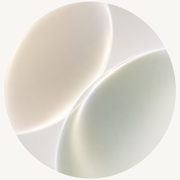
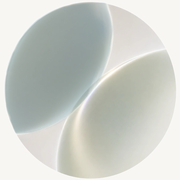
Redesign for desktop, remove dark mode, update brand mark
Logo: swaps in the new logo artwork (background made transparent the
same way as before) across the favicon, apple touch icon, and every
in-app usage, and sizes the mark down slightly at each of its three
call sites.

Layout: Shell now scales its max-width responsively (max-w-md up to
max-w-3xl at lg) instead of staying pinned to a 448px mobile column
regardless of viewport, so the app reads as a website that uses the
available width rather than a phone app floating in empty space. The
intro screen's stat grid, the settings stat grid, and the exercise
catalog all go multi-column on wider screens instead of staying
single/double-column.

Interactions: bottom-nav tabs get a hover "pop" (scale + lift + faint
background tint) with a 400ms ease-out transition; every other
duration-300 transition in the app (buttons, cards, chips) is bumped
to 400ms for a slightly more fluid feel.

Dark mode: removed entirely — the theme toggle button is gone from
the nav, useTheme() now hardcodes the light palette, and AmbientField
no longer branches on a dark variant. t.isDark stays wired through as
a permanent false rather than ripping out every light/dark ternary
across the file, so existing styling code keeps working unchanged
while always resolving to its light branch.

diff --git a/app/LuminousApp.js b/app/LuminousApp.js
@@ -2,7 +2,7 @@
 
 import React, { useState, useEffect, useRef, useCallback } from 'react';
 import {
-  Play, Pause, Sun, Moon, ChevronRight, ChevronLeft, Volume2, VolumeX,
+  Play, Pause, Moon, ChevronRight, ChevronLeft, Volume2, VolumeX,
   SkipForward, RotateCcw, Vibrate, Wind, Flame, Target, CloudRain, Leaf,
   Check, ArrowUp, ArrowDown, Sparkles, Plus, Minus, X,
   Waves, AlertTriangle, TrendingUp, BarChart3, Home, Music, Tag, History,
@@ -843,7 +843,7 @@ const MOOD_DOT_COLORS = {
 };
 
 function useTheme() {
-  const [isDark, setIsDark] = useState(false);
+  const isDark = false;
   const t = {
     bgColor: isDark ? BRAND.deepIndigo : BRAND.warmIvory, // applied via inline style at the root only
     text: isDark ? 'text-zinc-400' : 'text-zinc-500',
@@ -859,7 +859,7 @@ function useTheme() {
     buttonGhost: isDark ? 'bg-white/5 backdrop-blur-md text-zinc-300 hover:bg-white/10 shadow-sm' : 'bg-white/45 backdrop-blur-md text-zinc-600 hover:bg-white/70 shadow-sm',
     input: isDark ? 'bg-white/5 backdrop-blur-md text-zinc-200 placeholder-zinc-600 shadow-sm' : 'bg-white/50 backdrop-blur-md text-zinc-700 placeholder-zinc-400 shadow-sm',
   };
-  return { isDark, setIsDark, t };
+  return { isDark, t };
 }
 
 // Loads the brand's Display (Cormorant Garamond) and UI (Satoshi) fonts once,
@@ -882,18 +882,12 @@ function useBrandFonts() {
 }
 
 /* -------- ambient background: slow drifting brand-color light -------- */
-function AmbientField({ isDark }) {
-  const blobs = isDark
-    ? [
-        { top: '-12%', left: '-14%', size: 560, color: 'rgba(207,232,243,0.10)', anim: 'driftA 26s ease-in-out infinite' },
-        { top: '18%', right: '-16%', size: 520, color: 'rgba(216,234,219,0.10)', anim: 'driftB 32s ease-in-out infinite' },
-        { bottom: '-16%', left: '18%', size: 500, color: 'rgba(221,230,219,0.10)', anim: 'driftC 30s ease-in-out infinite' },
-      ]
-    : [
-        { top: '-12%', left: '-14%', size: 560, color: 'rgba(207,232,243,0.55)', anim: 'driftA 26s ease-in-out infinite' },
-        { top: '18%', right: '-16%', size: 520, color: 'rgba(216,234,219,0.55)', anim: 'driftB 32s ease-in-out infinite' },
-        { bottom: '-16%', left: '18%', size: 500, color: 'rgba(248,236,224,0.5)', anim: 'driftC 30s ease-in-out infinite' },
-      ];
+function AmbientField() {
+  const blobs = [
+    { top: '-12%', left: '-14%', size: 560, color: 'rgba(207,232,243,0.55)', anim: 'driftA 26s ease-in-out infinite' },
+    { top: '18%', right: '-16%', size: 520, color: 'rgba(216,234,219,0.55)', anim: 'driftB 32s ease-in-out infinite' },
+    { bottom: '-16%', left: '18%', size: 500, color: 'rgba(248,236,224,0.5)', anim: 'driftC 30s ease-in-out infinite' },
+  ];
   return (
     <div className="fixed inset-0 overflow-hidden pointer-events-none" style={{ zIndex: 0 }}>
       {blobs.map((b, i) => (
@@ -987,18 +981,6 @@ function Logo({ t }) {
   );
 }
 
-function ThemeToggle({ isDark, setIsDark, t }) {
-  return (
-    <button
-      onClick={() => setIsDark(d => !d)}
-      aria-label="Toggle dark mode"
-      className={`w-9 h-9 rounded-full flex items-center justify-center transition-colors ${t.buttonGhost}`}
-    >
-      {isDark ? <Sun size={16} strokeWidth={1.6} /> : <Moon size={16} strokeWidth={1.6} />}
-    </button>
-  );
-}
-
 function ProgressDots({ step, t }) {
   const steps = ['Check-in', 'Session', 'Reflect'];
   if (step < 0) return null;
@@ -1017,7 +999,7 @@ function ProgressDots({ step, t }) {
   );
 }
 
-function NavBar({ active, onHome, onReset, onFocus, onSettings, isDark, setIsDark, t }) {
+function NavBar({ active, onHome, onReset, onFocus, onSettings, t }) {
   const items = [
     { id: 'home', label: 'Home', icon: Home, action: onHome },
     { id: 'reset', label: 'Reset', icon: Leaf, action: onReset },
@@ -1034,7 +1016,7 @@ function NavBar({ active, onHome, onReset, onFocus, onSettings, isDark, setIsDar
             <button
               key={item.id}
               onClick={item.action}
-              className="relative flex items-center justify-center w-11 h-11 rounded-full transition-all duration-300"
+              className={`relative flex items-center justify-center w-11 h-11 rounded-full transition-all duration-[400ms] ease-out hover:scale-110 hover:-translate-y-0.5 active:scale-95 ${isActive ? '' : 'hover:bg-black/5'}`}
             >
               {isActive && (
                 <span className="absolute inset-0 rounded-full bg-gradient-to-br from-sky-200/70 via-blue-200/60 to-green-200/60" />
@@ -1043,8 +1025,6 @@ function NavBar({ active, onHome, onReset, onFocus, onSettings, isDark, setIsDar
             </button>
           );
         })}
-        <span className="w-px h-5 mx-1 bg-current opacity-10" />
-        <ThemeToggle isDark={isDark} setIsDark={setIsDark} t={t} />
       </div>
     </div>
   );
@@ -1080,7 +1060,7 @@ function MoodPicker({ value, onChange, t }) {
           onClick={() => onChange(i)}
           className="flex flex-col items-center gap-2 group"
         >
-          <div className={`p-2.5 rounded-2xl transition-all duration-300 ${value === i ? (t.isDark ? 'bg-sky-950/40' : 'bg-sky-50') : ''}`}>
+          <div className={`p-2.5 rounded-2xl transition-all duration-[400ms] ${value === i ? (t.isDark ? 'bg-sky-950/40' : 'bg-sky-50') : ''}`}>
             <FaceIcon level={i} active={value === i} t={t} />
           </div>
           <span className={`text-[11px] transition-colors ${value === i ? 'text-sky-400' : t.textSoft}`}>{label}</span>
@@ -1139,7 +1119,7 @@ function MoodQuiz({ answers, setAnswer, t }) {
               <button
                 key={opt.id}
                 onClick={() => choose(q.id, opt.id)}
-                className={`flex items-center justify-between gap-3 px-4 py-3.5 rounded-2xl text-sm transition-all duration-300 ${
+                className={`flex items-center justify-between gap-3 px-4 py-3.5 rounded-2xl text-sm transition-all duration-[400ms] ${
                   active ? t.cardAlt : 'hover:bg-white/25'
                 }`}
               >
@@ -1148,7 +1128,7 @@ function MoodQuiz({ answers, setAnswer, t }) {
                   <span className={t.heading}>{opt.label}</span>
                 </span>
                 <span
-                  className="w-4 h-4 rounded-full flex-shrink-0 transition-all duration-300"
+                  className="w-4 h-4 rounded-full flex-shrink-0 transition-all duration-[400ms]"
                   style={{
                     boxShadow: `inset 0 0 0 1.5px ${active ? BRAND.deepIndigo : BRAND.lightGray}`,
                     backgroundColor: active ? BRAND.deepIndigo : 'transparent',
@@ -1174,8 +1154,8 @@ function MoodQuiz({ answers, setAnswer, t }) {
 
 function Shell({ children, t }) {
   return (
-    <div className="relative z-10 min-h-screen w-full flex items-center justify-center px-5 py-10 pb-28">
-      <div className="w-full max-w-md">{children}</div>
+    <div className="relative z-10 min-h-screen w-full flex items-center justify-center px-5 sm:px-8 lg:px-12 py-10 lg:py-16 pb-28">
+      <div className="w-full max-w-md sm:max-w-lg md:max-w-2xl lg:max-w-3xl">{children}</div>
     </div>
   );
 }
@@ -1308,13 +1288,13 @@ function greeting() {
   return 'Good evening.';
 }
 
-function IntroScreen({ onBegin, onFocus, onSettings, onQuickReset, t, isDark, setIsDark, historyCount, streak, lastMood, todayCount }) {
+function IntroScreen({ onBegin, onFocus, onSettings, onQuickReset, t, historyCount, streak, lastMood, todayCount }) {
   return (
     <Shell t={t}>
-      <NavBar active="home" onHome={() => {}} onReset={onBegin} onFocus={onFocus} onSettings={onSettings} isDark={isDark} setIsDark={setIsDark} t={t} />
+      <NavBar active="home" onHome={() => {}} onReset={onBegin} onFocus={onFocus} onSettings={onSettings} t={t} />
 
       <div className="flex flex-col items-center text-center gap-6" style={{ animation: 'screenIn 700ms cubic-bezier(0.16,1,0.3,1)' }}>
-        <LuminousMark size={72} t={t} />
+        <LuminousMark size={62} t={t} />
         <div>
           <h1 className={`text-2xl font-light mb-1 ${t.heading}`} style={{ fontFamily: "'Cormorant Garamond', Georgia, serif" }}>{greeting()}</h1>
           <p className={`text-sm ${t.textSoft}`}>Take a moment for yourself.</p>
@@ -1323,20 +1303,20 @@ function IntroScreen({ onBegin, onFocus, onSettings, onQuickReset, t, isDark, se
         <div className="flex flex-col sm:flex-row gap-3 w-full">
           <button
             onClick={onBegin}
-            className={`flex-1 px-6 py-3.5 rounded-full text-sm tracking-wide transition-all duration-300 flex items-center justify-center gap-2 ${t.button}`}
+            className={`flex-1 px-6 py-3.5 rounded-full text-sm tracking-wide transition-all duration-[400ms] flex items-center justify-center gap-2 ${t.button}`}
           >
             Begin a Reset <ChevronRight size={15} strokeWidth={1.8} />
           </button>
           <button
             onClick={onFocus}
-            className={`flex-1 px-6 py-3.5 rounded-full text-sm tracking-wide transition-all duration-300 flex items-center justify-center gap-2 ${t.buttonGhost}`}
+            className={`flex-1 px-6 py-3.5 rounded-full text-sm tracking-wide transition-all duration-[400ms] flex items-center justify-center gap-2 ${t.buttonGhost}`}
           >
             Focus Session <ChevronRight size={15} strokeWidth={1.8} />
           </button>
         </div>
       </div>
 
-      <div className="grid grid-cols-2 gap-3 mt-8">
+      <div className="grid grid-cols-2 md:grid-cols-4 gap-3 mt-8">
         <div className={`rounded-2xl p-4 ${t.card}`}>
           <p className={`text-lg font-light ${t.heading}`}>{todayCount}</p>
           <p className={`text-[11px] mt-0.5 ${t.textSoft}`}>Today's sessions</p>
@@ -1349,7 +1329,7 @@ function IntroScreen({ onBegin, onFocus, onSettings, onQuickReset, t, isDark, se
           <p className={`text-lg font-light ${t.heading}`}>{lastMood || '—'}</p>
           <p className={`text-[11px] mt-0.5 ${t.textSoft}`}>Last mood</p>
         </div>
-        <button onClick={onQuickReset} className={`rounded-2xl p-4 text-left transition hover:-translate-y-0.5 ${t.card}`}>
+        <button onClick={onQuickReset} className={`rounded-2xl p-4 text-left transition duration-[400ms] hover:-translate-y-0.5 hover:shadow-md ${t.card}`}>
           <p className={`text-lg font-light ${t.heading}`}>Guide</p>
           <p className={`text-[11px] mt-0.5 ${t.textSoft}`}>Skip check-in →</p>
         </button>
@@ -1387,7 +1367,7 @@ function PreMoodScreen({ quizAnswers, setQuizAnswer, tensionAreas, toggleTension
                 <button
                   key={area.id}
                   onClick={() => toggleTensionArea(area.id)}
-                  className={`px-3.5 py-2 rounded-full text-xs transition-all duration-300 ${
+                  className={`px-3.5 py-2 rounded-full text-xs transition-all duration-[400ms] ${
                     active ? 'bg-green-100/80 text-green-700 shadow-sm' : t.buttonGhost
                   }`}
                 >
@@ -1421,7 +1401,7 @@ function PreMoodScreen({ quizAnswers, setQuizAnswer, tensionAreas, toggleTension
         <button
           disabled={!quizComplete}
           onClick={onContinue}
-          className={`px-7 py-3 rounded-full text-sm transition-all duration-300 flex items-center gap-2 disabled:opacity-30 disabled:cursor-not-allowed ${t.button}`}
+          className={`px-7 py-3 rounded-full text-sm transition-all duration-[400ms] flex items-center gap-2 disabled:opacity-30 disabled:cursor-not-allowed ${t.button}`}
         >
           Continue <ChevronRight size={15} strokeWidth={1.8} />
         </button>
@@ -1967,7 +1947,7 @@ function GuideLevelPicker({ level, setLevel, t }) {
         <button
           key={l.id}
           onClick={() => setLevel(l.id)}
-          className={`px-3.5 py-2 rounded-full text-xs transition-all duration-300 ${
+          className={`px-3.5 py-2 rounded-full text-xs transition-all duration-[400ms] ${
             level === l.id ? 'bg-sky-100/80 text-sky-700 shadow-sm' : t.buttonGhost
           }`}
         >
@@ -2632,25 +2612,27 @@ function ExerciseCatalog({ t }) {
       <p className={`text-[11px] text-center mb-1 ${t.textSoft}`}>
         Every exercise the Luminous Guide can draw from. Sessions are put together automatically based on your check-in.
       </p>
-      {AT_EXERCISES.map(ex => (
-        <div key={ex.id} className={`rounded-2xl p-4 ${t.card}`}>
-          <div className="flex items-center justify-between gap-2 mb-1">
-            <p className={`text-sm ${t.heading}`}>{ex.name}</p>
-            {ex.movement && <span className={`text-[10px] uppercase tracking-wide flex-shrink-0 ${t.textSoft}`}>Movement</span>}
+      <div className="grid sm:grid-cols-2 lg:grid-cols-3 gap-3">
+        {AT_EXERCISES.map(ex => (
+          <div key={ex.id} className={`rounded-2xl p-4 transition duration-[400ms] hover:-translate-y-0.5 hover:shadow-md ${t.card}`}>
+            <div className="flex items-center justify-between gap-2 mb-1">
+              <p className={`text-sm ${t.heading}`}>{ex.name}</p>
+              {ex.movement && <span className={`text-[10px] uppercase tracking-wide flex-shrink-0 ${t.textSoft}`}>Movement</span>}
+            </div>
+            <p className={`text-xs mb-2.5 ${t.textSoft}`}>{ex.blurb}</p>
+            <div className="flex flex-wrap gap-1.5">
+              {ex.tags.map(tag => (
+                <span key={tag} className={`text-[10px] px-2 py-1 rounded-full ${t.purple}`}>{STATE_TAG_LABELS[tag] || tag}</span>
+              ))}
+            </div>
           </div>
-          <p className={`text-xs mb-2.5 ${t.textSoft}`}>{ex.blurb}</p>
-          <div className="flex flex-wrap gap-1.5">
-            {ex.tags.map(tag => (
-              <span key={tag} className={`text-[10px] px-2 py-1 rounded-full ${t.purple}`}>{STATE_TAG_LABELS[tag] || tag}</span>
-            ))}
-          </div>
-        </div>
-      ))}
+        ))}
+      </div>
     </div>
   );
 }
 
-function SettingsScreen({ savedEntries, nav, isDark, setIsDark, t }) {
+function SettingsScreen({ savedEntries, nav, t }) {
   const [view, setView] = useState('stats'); // stats | catalog
   const [studyLog, setStudyLog] = useState([]);
   const [exerciseCounts, setExerciseCounts] = useState({});
@@ -2709,7 +2691,7 @@ function SettingsScreen({ savedEntries, nav, isDark, setIsDark, t }) {
         <div className={`inline-flex gap-1 p-1 rounded-full ${t.cardAlt}`}>
           <button
             onClick={() => setView('stats')}
-            className={`flex items-center gap-1.5 px-4 py-2 rounded-full text-xs transition-all duration-300 ${
+            className={`flex items-center gap-1.5 px-4 py-2 rounded-full text-xs transition-all duration-[400ms] ${
               view === 'stats' ? 'bg-sky-100/80 text-sky-700 shadow-sm' : t.textSoft
             }`}
           >
@@ -2717,7 +2699,7 @@ function SettingsScreen({ savedEntries, nav, isDark, setIsDark, t }) {
           </button>
           <button
             onClick={() => setView('catalog')}
-            className={`flex items-center gap-1.5 px-4 py-2 rounded-full text-xs transition-all duration-300 ${
+            className={`flex items-center gap-1.5 px-4 py-2 rounded-full text-xs transition-all duration-[400ms] ${
               view === 'catalog' ? 'bg-sky-100/80 text-sky-700 shadow-sm' : t.textSoft
             }`}
           >
@@ -2748,7 +2730,7 @@ function SettingsScreen({ savedEntries, nav, isDark, setIsDark, t }) {
         </div>
       )}
 
-      <div className="grid grid-cols-2 gap-3 mb-5">
+      <div className="grid grid-cols-2 md:grid-cols-4 gap-3 mb-5">
         <StatCard label="Total sessions" value={totalSessions} t={t} />
         <StatCard label="Current streak" value={`${streak} day${streak === 1 ? '' : 's'}`} t={t} />
         <StatCard label="Study time" value={`${totalStudyMinutes}m`} t={t} />
@@ -2958,7 +2940,7 @@ function FocusTimer({ label, secondsLeft, totalSeconds, paused, onPauseToggle, o
         <div className="h-full transition-all duration-700" style={{ width: `${(1 - fraction) * 100}%`, background: `linear-gradient(to right, ${BRAND.mistBlue}, ${BRAND.sageFog}, ${BRAND.sageGreen})` }} />
       </div>
 
-      <div className="flex items-center gap-4 mt-10 opacity-40 hover:opacity-100 transition-opacity duration-300">
+      <div className="flex items-center gap-4 mt-10 opacity-40 hover:opacity-100 transition-opacity duration-[400ms]">
         <button onClick={onPauseToggle} className={`w-10 h-10 rounded-full flex items-center justify-center transition ${t.buttonGhost}`}>
           {paused ? <Play size={15} strokeWidth={1.6} /> : <Pause size={15} strokeWidth={1.6} />}
         </button>
@@ -2972,7 +2954,7 @@ function StudyReflectScreen({ studyMin, rounds, goal, mood, setMood, focusRating
   return (
     <Shell t={t}>
       <div className="flex flex-col items-center text-center gap-3 mb-8">
-        <LuminousMark size={56} t={t} />
+        <LuminousMark size={48} t={t} />
         <h2 style={{ fontFamily: "'Cormorant Garamond', Georgia, serif" }} className={`text-xl font-light ${t.heading}`}>
           Well done — you focused for {studyMin * rounds} minute{studyMin * rounds === 1 ? '' : 's'}
           {rounds > 1 ? ` across ${rounds} rounds` : ''}.
@@ -3166,7 +3148,7 @@ function SplashScreen({ onBegin, t }) {
           style={{ background: `conic-gradient(from 90deg, ${BRAND.sageGreen}, ${BRAND.sageFog}, ${BRAND.mistBlue}, ${BRAND.sageGreen})`, animation: 'orbSpin 24s linear infinite reverse' }}
         />
         <div style={{ animation: 'orbPulse 6s ease-in-out infinite' }}>
-          <LuminousMark size={140} t={t} />
+          <LuminousMark size={118} t={t} />
         </div>
       </div>
       <p className={`text-2xl sm:text-4xl mb-3 tracking-[0.25em] ${t.heading}`} style={{ fontFamily: "'Cormorant Garamond', Georgia, serif" }}>LUMINOUS</p>
@@ -3175,7 +3157,7 @@ function SplashScreen({ onBegin, t }) {
       <p className={`text-sm sm:text-lg leading-relaxed mb-12 ${t.textSoft}`}>A moment for you.<br />A lifetime of clarity.</p>
       <button
         onClick={onBegin}
-        className={`px-9 sm:px-11 py-3.5 sm:py-4 rounded-full text-sm sm:text-base tracking-wide transition-all duration-300 ${t.button}`}
+        className={`px-9 sm:px-11 py-3.5 sm:py-4 rounded-full text-sm sm:text-base tracking-wide transition-all duration-[400ms] ${t.button}`}
       >
         Begin
       </button>
@@ -3188,7 +3170,7 @@ function SplashScreen({ onBegin, t }) {
    ========================================================================= */
 
 export default function LuminousApp() {
-  const { isDark, setIsDark, t } = useTheme();
+  const { isDark, t } = useTheme();
   t.isDark = isDark;
   useBrandFonts();
 
@@ -3276,7 +3258,6 @@ export default function LuminousApp() {
     onReset: () => setScreen('preMood'),
     onFocus: () => setScreen('pomodoro'),
     onSettings: () => setScreen('settings'),
-    isDark, setIsDark,
   };
 
   const todayCount = savedEntries.filter(e => new Date(e.date).toDateString() === new Date().toDateString()).length;
@@ -3299,7 +3280,7 @@ export default function LuminousApp() {
         .luminous-screen * { transition-timing-function: cubic-bezier(0.16,1,0.3,1); }
       `}</style>
 
-      <AmbientField isDark={isDark} />
+      <AmbientField />
 
       <div key={screen} className="luminous-screen relative">
         {screen === 'splash' && (
@@ -3312,7 +3293,7 @@ export default function LuminousApp() {
             onFocus={() => setScreen('pomodoro')}
             onSettings={() => setScreen('settings')}
             onQuickReset={() => setScreen('guide')}
-            t={t} isDark={isDark} setIsDark={setIsDark}
+            t={t}
             historyCount={savedEntries.length}
             streak={streak}
             lastMood={lastMood}
@@ -3367,7 +3348,7 @@ export default function LuminousApp() {
         )}
 
         {screen === 'settings' && (
-          <SettingsScreen savedEntries={savedEntries} nav={nav} isDark={isDark} setIsDark={setIsDark} t={t} />
+          <SettingsScreen savedEntries={savedEntries} nav={nav} t={t} />
         )}
       </div>
     </div>
